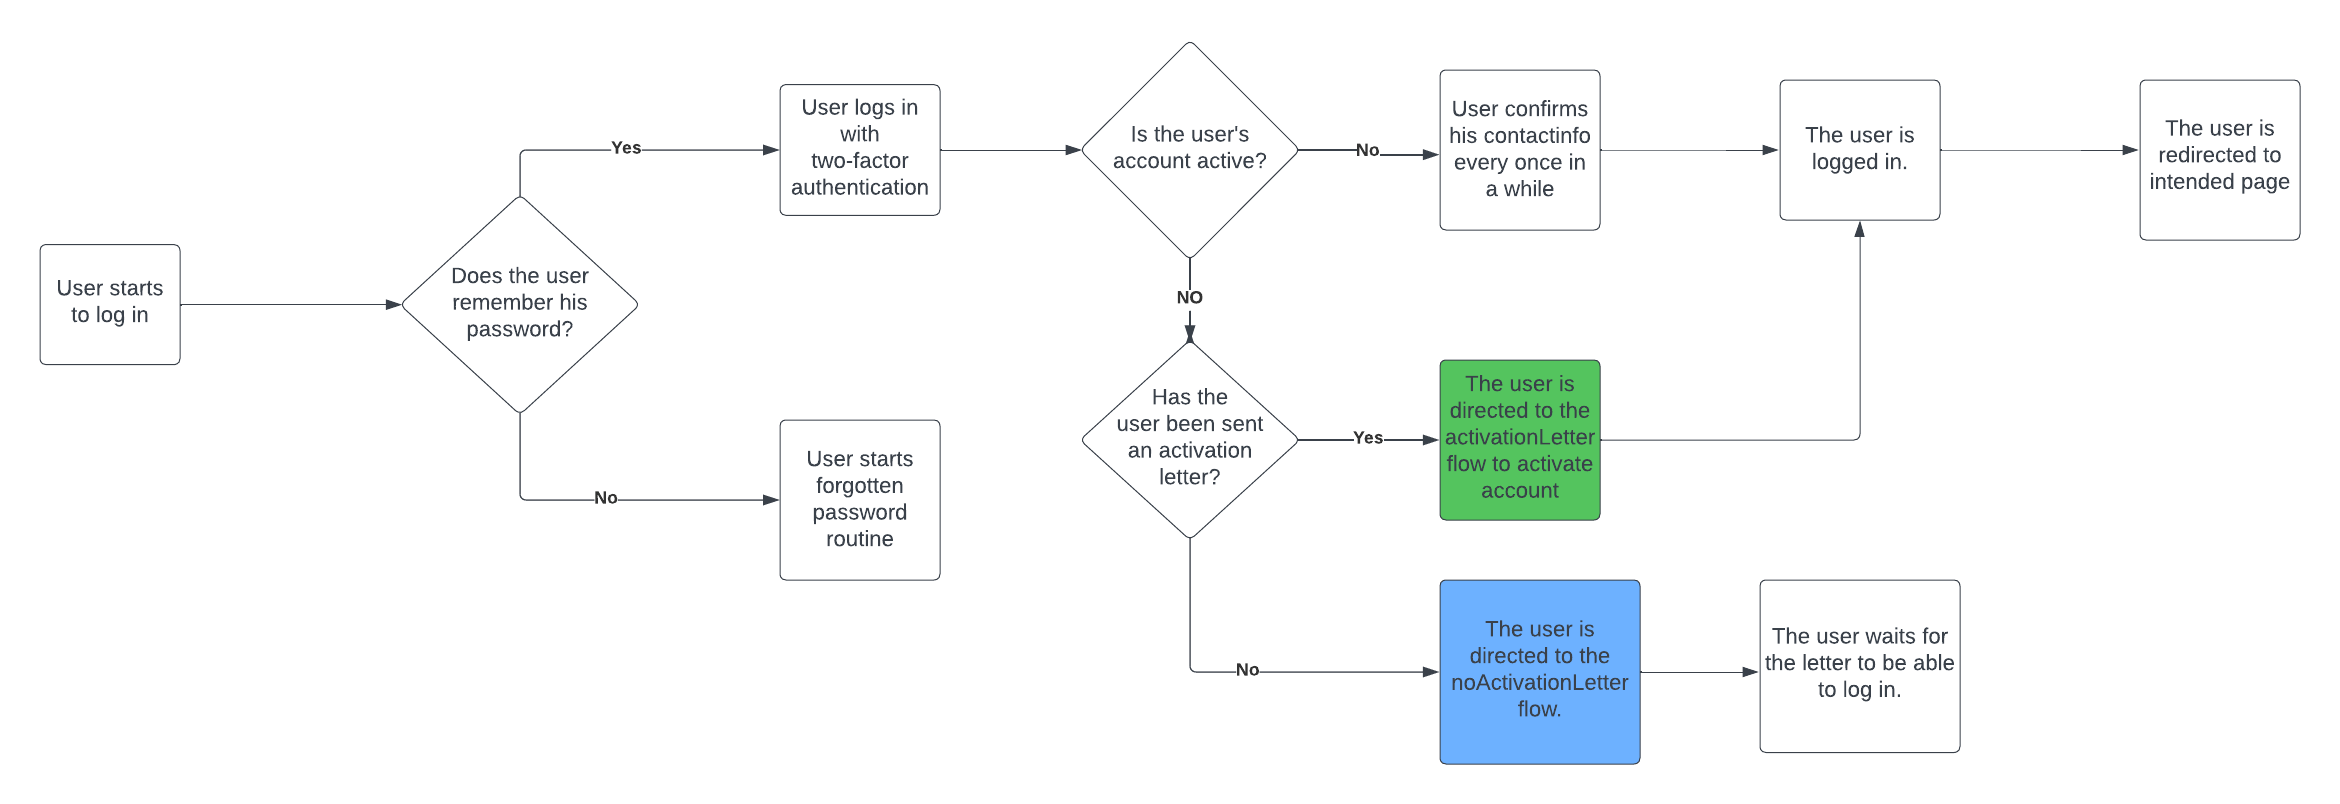
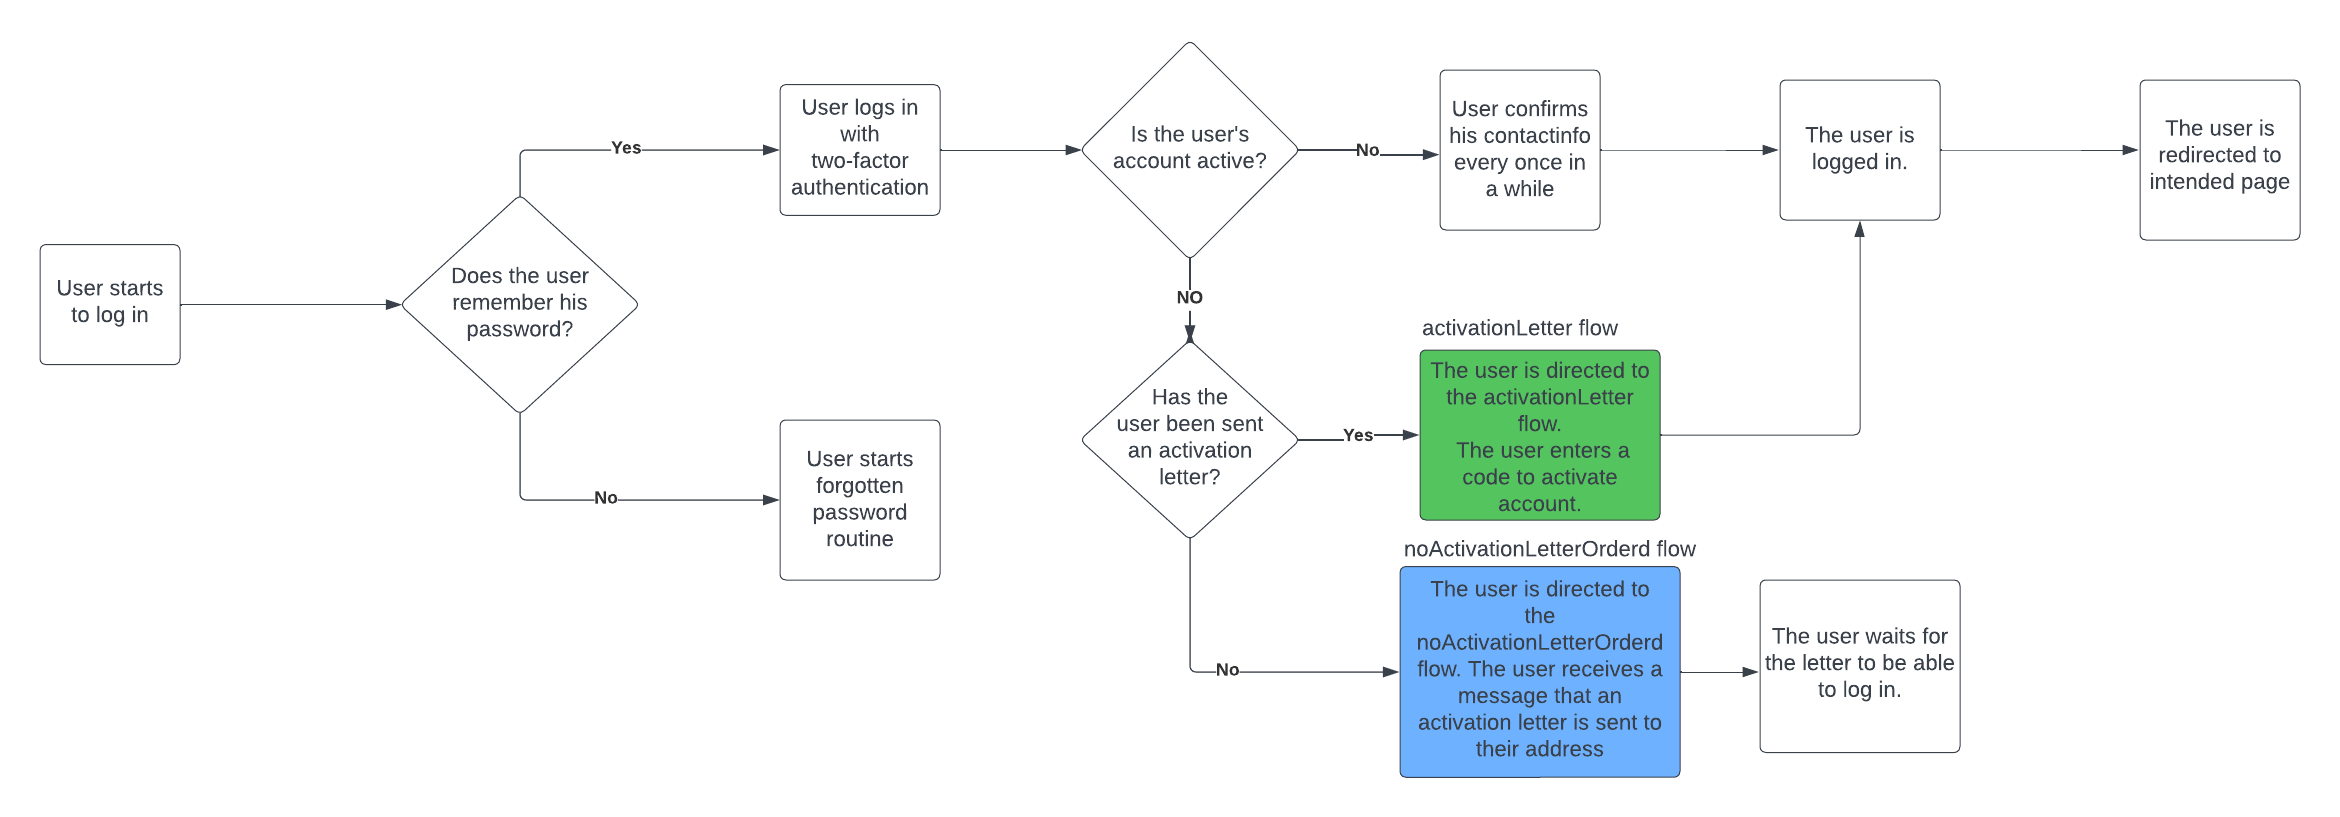
More changes readme

diff --git a/README.md b/README.md
@@ -59,11 +59,13 @@ This design has the same flow as implementation1, but with a different color sch
 
 
 ### Login Flow
-The login flow is illustrated below:
+The login flow of all implementations is illustrated below:
 
 <img src="./images/minID_flow.png" alt="MinID flow" style="margin: 15px">
 
-It's worth mentioning that to reach the activationLetterFlow (the blue box in the flow chart), you only need to enter one password character and then press the login button. To access the passwordFlow (the green box in the flow chart), you need to enter two password characters and then press the login button. For the normal loginFlow, you must enter all the password characters and then press the login button.
+* To reach the activationLetterFlow (the blue box in the flow chart), you need to enter any one number in the form collecting national identification numbers and then press the login button. 
+* To access the noLetterActivationLetterOrderedFlow (the green box in the flow chart), you need to enter any two numbers in the form collecting national identification numbers and then press the login button.
+* To access the normal loginFlow, you must enter any 11 numbers in the form collecting national identification numbers and then press the login button.
 
 ## Available Scripts
 
